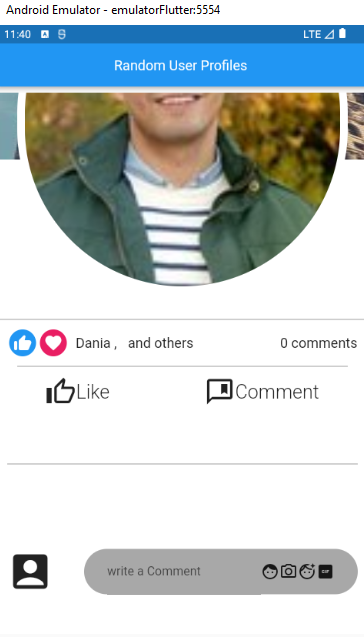
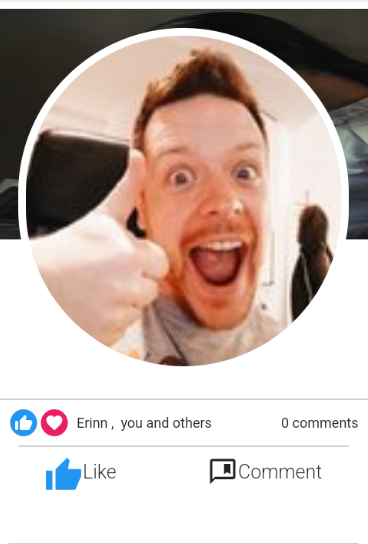
Finished it (may update it in future)

diff --git a/lib/main.dart b/lib/main.dart
@@ -58,7 +58,7 @@ class MyApp extends StatelessWidget {
                   child: Column(
                     children: [
                       TopListTileWidget(index),
-                      MainUserImages(randomUserIndex, bgImage),
+                      MainUserImages(index, bgImage),
                       const Divider(
                         color: Colors.grey,
                       ),

diff --git a/README.md b/README.md
@@ -1,16 +1,24 @@
 # calculator
 
-A new Flutter project.
+##        Static User Profiles like Facebook
 
-## Getting Started
+#  Created this app  for practice while learning flutter
+  
+This app contains some random user profiles (upto 30 users)
+with data dowloaded from randomuser.me in json format
 
-This project is a starting point for a Flutter application.
+![](assets/screenshot1.png)
 
-A few resources to get you started if this is your first Flutter project:
+![](assets/screenshot2.png)
 
-- [Lab: Write your first Flutter app](https://docs.flutter.dev/get-started/codelab)
-- [Cookbook: Useful Flutter samples](https://docs.flutter.dev/cookbook)
+![](assets/screenshot3.png)
 
-For help getting started with Flutter development, view the
-[online documentation](https://docs.flutter.dev/), which offers tutorials,
-samples, guidance on mobile development, and a full API reference.
+![](assets/screenshot4.png)
+
+![](assets/screenshot5.png)
+
+![](assets/screenshot6.png)
+
+![](assets/screenshot7.png)
+
+##  and the list continues...
